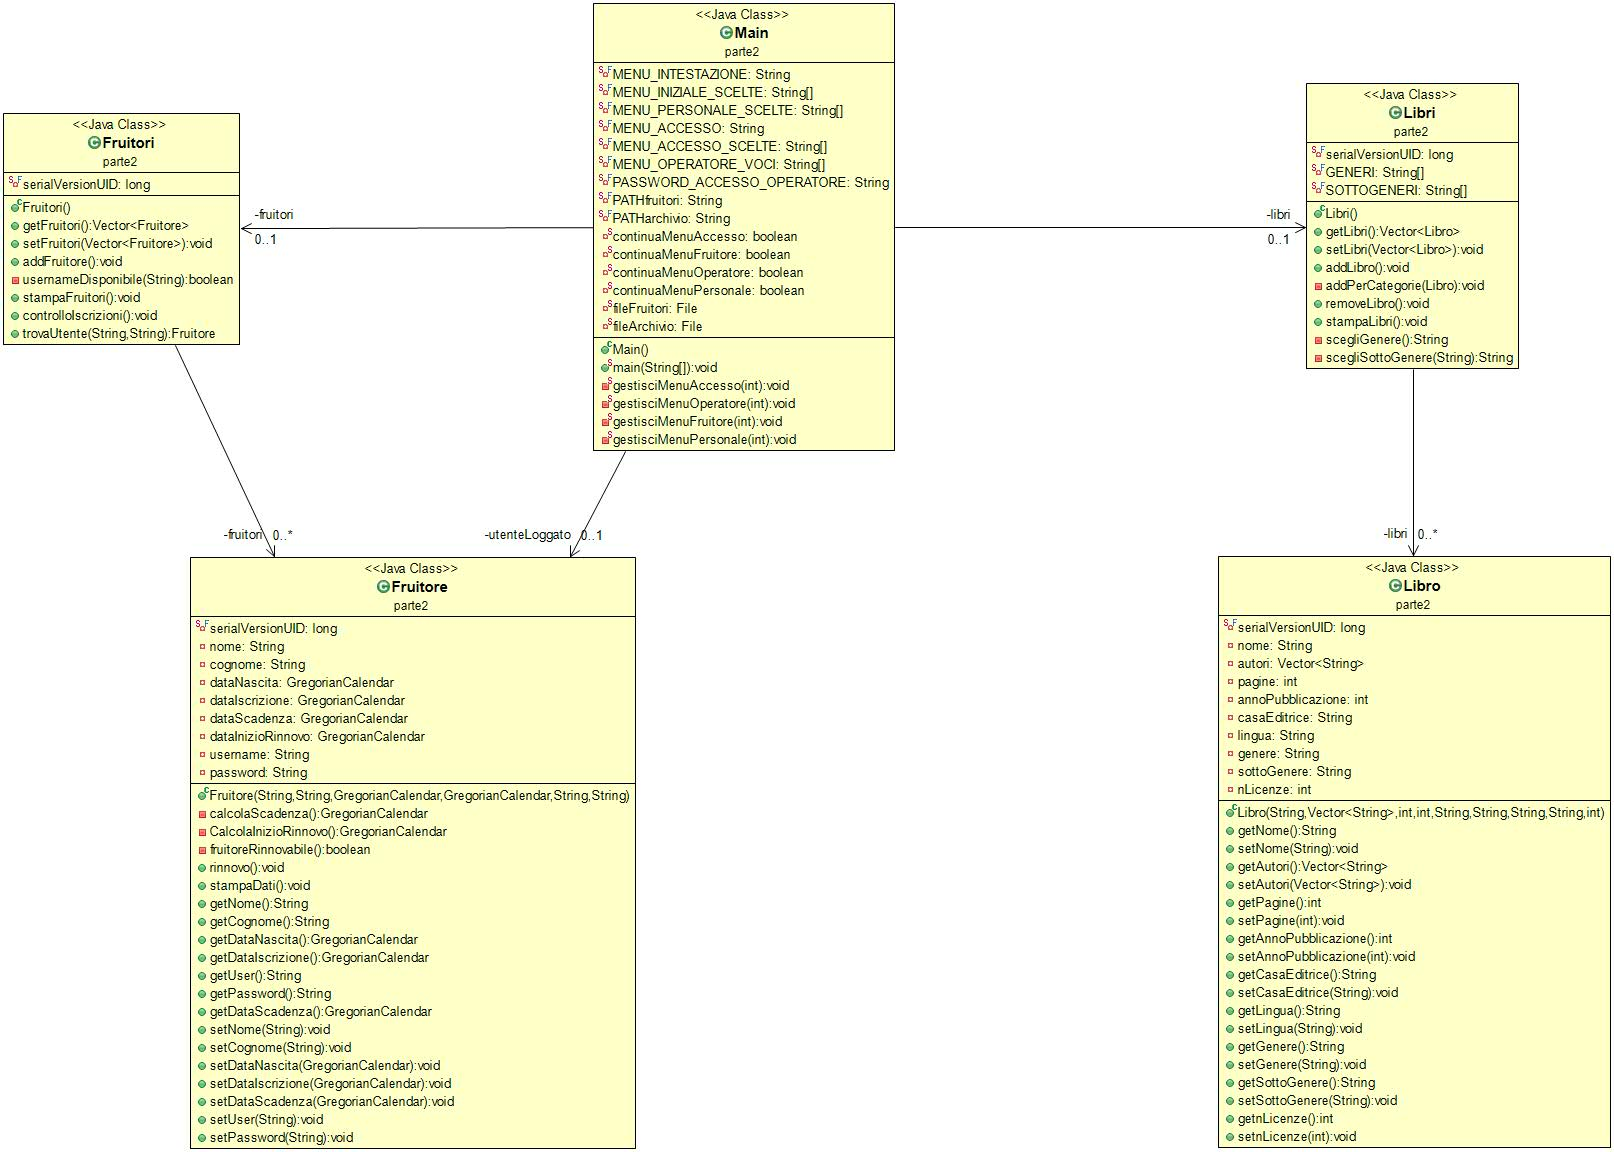
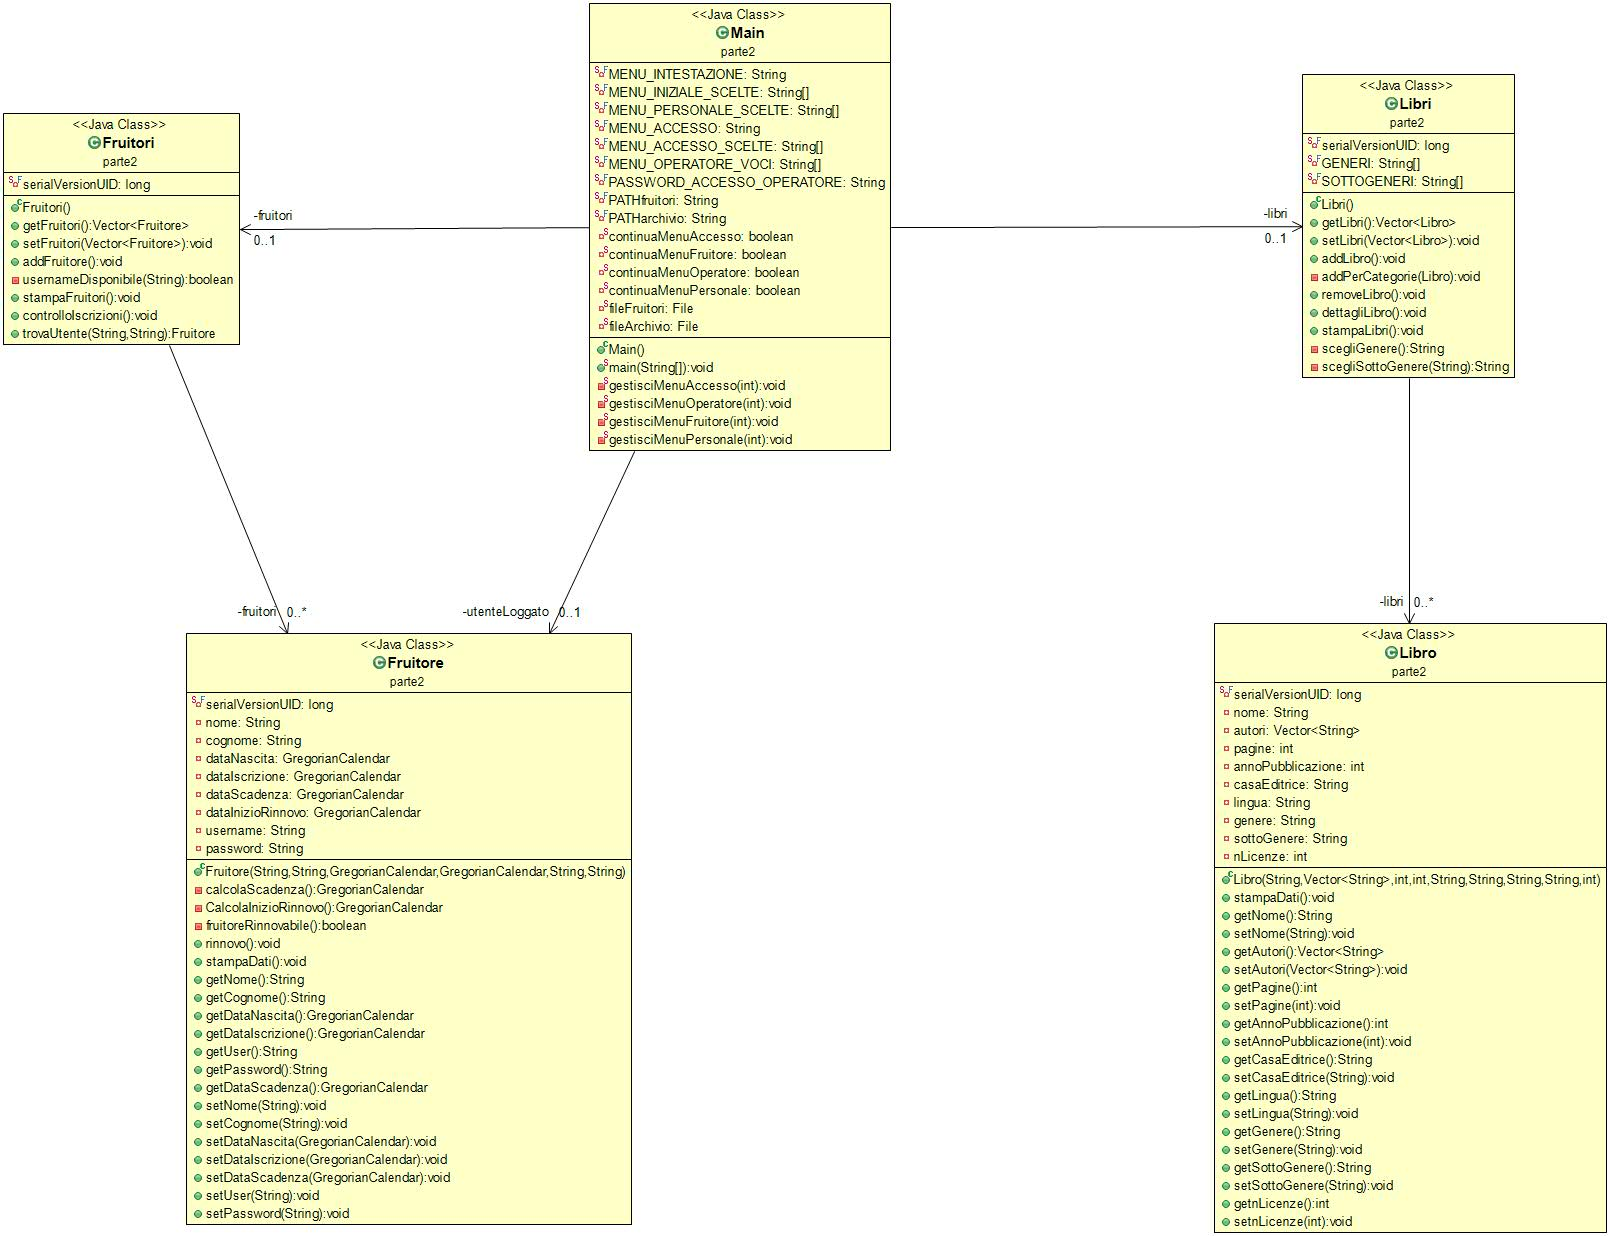
remove libro + documentazione
modificato removeLibro in modo che se ci sono più libri con lo stesso
titolo l'utente possa scegliere quale eliminare

diff --git a/Parte2/src/parte2/Libro.java b/Parte2/src/parte2/Libro.java
@@ -2,6 +2,11 @@ package parte2;
 import java.io.Serializable;
 import java.util.Vector;
 
+/**
+ * Classe che rappresenta la descrizione di una risorsa multimediale di tipo Libro
+ * @author Prandini Stefano
+ * @author Landi Federico
+ */
 public class Libro implements Serializable
 {
 	private static final long serialVersionUID = 1L;
@@ -16,6 +21,18 @@ public class Libro implements Serializable
 	private String sottoGenere;
 	private int nLicenze;
 	
+	/**
+	 * Costuttore della classe libro
+	 * @param nome il titolo del libro
+	 * @param autori il vector degli autori del libro
+	 * @param pagine il numero di pagine
+	 * @param annoPubblicazione l'anno di pubblicazione
+	 * @param casaEditrice la casa editrice
+	 * @param lingua la lingua del testo
+	 * @param genere il genere del libro
+	 * @param sottoGenere il sottogenere del libro ( "-" se il genere non ha sottogeneri)
+	 * @param nLicenze il numero di licenze disponibili
+	 */
 	public Libro(String nome, Vector<String> autori, int pagine, int annoPubblicazione, String casaEditrice,
 			String lingua, String genere,String sottoGenere,int nLicenze) 
 	{
@@ -29,10 +46,13 @@ public class Libro implements Serializable
 		this.setSottoGenere(sottoGenere);
 		this.setnLicenze(nLicenze);
 	}
-	
+
+	/**
+	 * Stampa tutte le informazioni del libro
+	 */
 	public void stampaDati()
 	{
-		System.out.println("------------------------------------------------\n");
+		System.out.println("------------------------------------------------");
 		System.out.println("Titolo--------------------: " + nome);
 		System.out.print("Autori--------------------:");
 		for(int i = 0; i < autori.size(); i++)

diff --git a/Parte2/src/parte2/Main.java b/Parte2/src/parte2/Main.java
@@ -49,7 +49,6 @@ public class Main
 //	serve a tutti i metodi (va qua?)
 	private static Fruitori fruitori = new Fruitori();
 	private static Libri libri = new Libri();
-	
 	private static Fruitore utenteLoggato = null;
 	
 	public static void main(String[] args)
@@ -179,7 +178,7 @@ public class Main
 				continuaMenuOperatore=true;
 				break;
 			}
-			case 4://STAMPA LIBRI
+			case 4://VISUALIZZA ELENCO LIBRI
 			{
 				libri.stampaLibri();
 				
